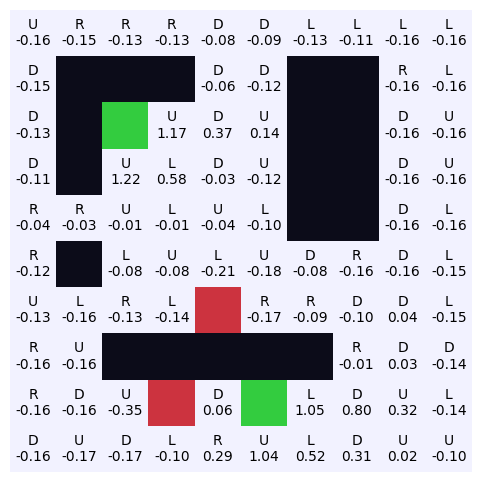
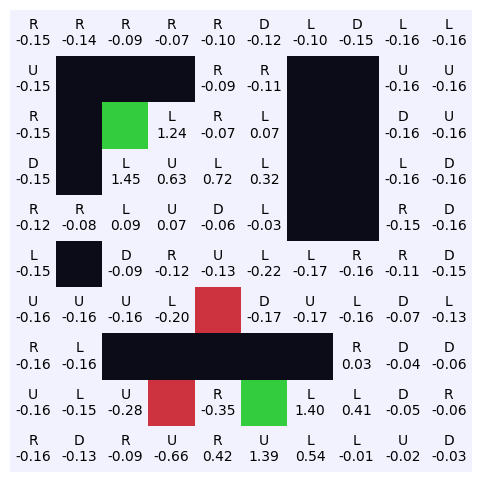
Fixes

diff --git a/Assignment04/src/q_learning.py b/Assignment04/src/q_learning.py
@@ -40,8 +40,8 @@ class QLearning():
 
     def iterate(self, trials=500, max_steps=1000):
         for _trial in range(trials):
-            total_reward = 0
-
+            self.grid.reset_pos()
+            
             for _step in range(max_steps):
                 old_state = self.grid.pos
                 action = self.choose_action()
@@ -49,10 +49,8 @@ class QLearning():
                 new_state = self.grid.pos
 
                 self.learn(old_state, action, new_state, reward)
-                total_reward += reward
 
                 if self.grid.is_end_state(new_state):
-                    self.grid.reset_pos()
                     break
 
     def make_figure(self, title, save=True, show=False):
